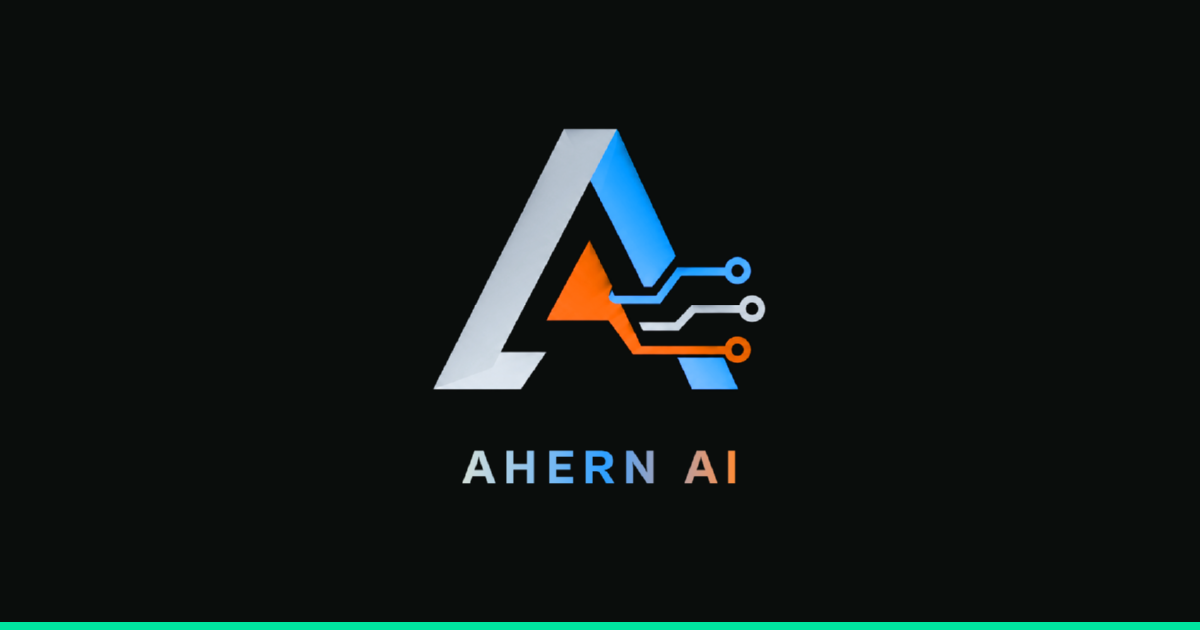
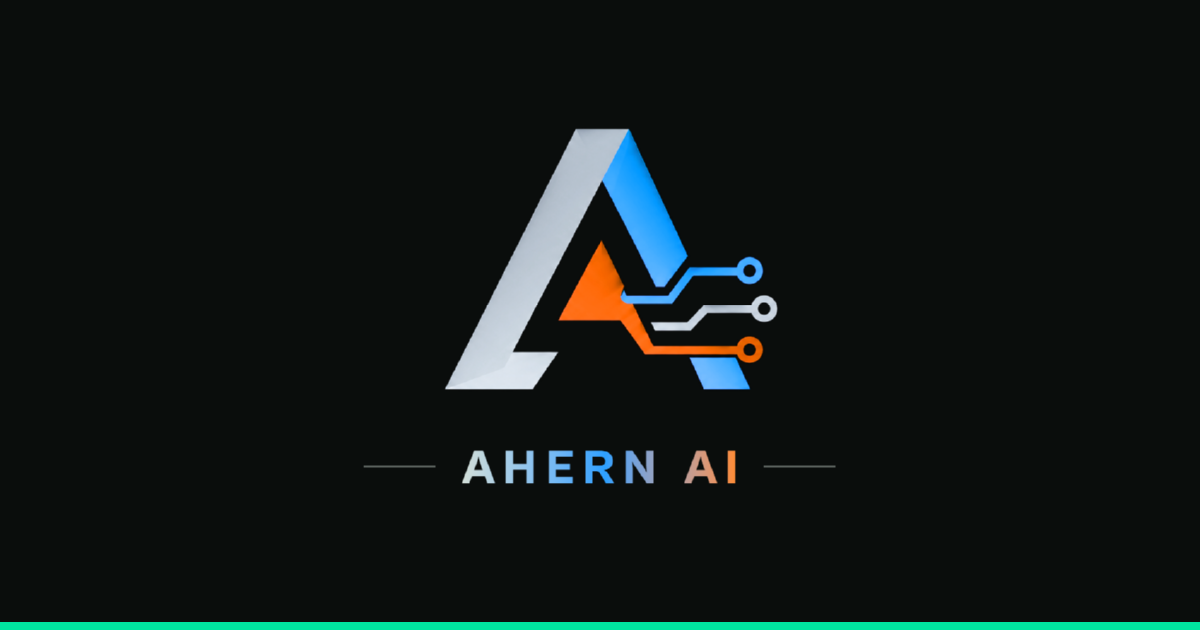
Gate: restore the flanking rules, drop the redundant wordmark
Three tweaks to the launch screen.

The rules from the original lockup are back, flanking the wordmark. They sit on
an outer .lockup-type while the gradient moves inward to a new .lockup-word,
because background-clip:text measures across the whole element — leaving the
gradient outside would have stretched the ramp over the rules too and dragged
every stop off the letter it was placed on. They also carry an explicit colour
rather than currentColor, which is transparent here so the gradient can show
through the glyphs, and would have rendered the rules invisible.

The wordmark now hangs off the mark's centre of mass instead of its bounding
box. The solid leg is heavy and the circuit traces are thin, so the mark's ink
centroid sits 3.6% of its width left of geometric centre; matching that lines
the two up by eye. Measured: the glyph run's centre is now 0.02px off the
centroid, against 5.3px before.

The small "Ahern AI" under the form is gone. The lockup above already says
whose site this is.

The flat rasters are regenerated to match, and the link preview card with them,
so the stacked lockup reads the same everywhere it appears.

diff --git a/lib/gate.js b/lib/gate.js
@@ -157,17 +157,39 @@ function renderGatePage({ error, next }) {
          hues back where invert() moved them. */
       filter: invert(1) hue-rotate(180deg);
     }
+    /* Outer element frames the wordmark with the rules and carries no
+       background of its own — the gradient has to measure across the glyph run
+       alone, so it lives on .lockup-word inside. Putting it out here would
+       stretch the ramp across the rules as well and drag every stop off the
+       letter it was placed on. */
     .lockup-type {
+      display: flex; align-items: center; gap: 0.55em;
       font-family: 'Cabinet Grotesk', 'Trebuchet MS', sans-serif;
       font-weight: 800; text-transform: uppercase; line-height: 1;
-      font-size: 0.26em; letter-spacing: 0.2em; white-space: nowrap;
+      font-size: 0.26em; white-space: nowrap;
+      /* The mark's weight sits left of its bounding box: the solid leg is
+         heavy while the circuit traces are thin, putting its centre of mass
+         about 3.6% of its width left of geometric centre. Shifting the
+         wordmark the same distance lines the two up by eye rather than by box. */
+      transform: translateX(-0.25em);
+    }
+    /* Flanking rules, carried over from the original lockup. Coloured
+       explicitly rather than with currentColor: the wordmark's colour is
+       transparent so the gradient can show through it, and rules inheriting
+       that would be invisible. */
+    .lockup-type::before, .lockup-type::after {
+      content: ''; display: block; flex: none;
+      width: 1.5em; height: 0.047em; background: #d3ded8; opacity: 0.4;
+    }
+    .lockup-word {
+      flex: none; letter-spacing: 0.2em;
       /* Pulls back the phantom half-space the trailing letter-spacing adds,
          so the wordmark centres on its glyphs rather than its box. */
       margin-right: -0.2em;
       color: #d3ded8;
     }
     @supports (background-clip: text) or (-webkit-background-clip: text) {
-      .lockup-type {
+      .lockup-word {
         background-image: linear-gradient(90deg, #d3ded8 0%, #2ca0ff 52%, #ff8a2e 100%);
         background-image: linear-gradient(90deg in oklab, #d3ded8 0%, #2ca0ff 52%, #ff8a2e 100%);
         -webkit-background-clip: text; background-clip: text; color: transparent;
@@ -188,14 +210,13 @@ function renderGatePage({ error, next }) {
     }
     button:hover { background: #4dffc2; }
     .error { color: #ff8a2e; font-size: 0.9rem; margin: 0.25rem 0 0; }
-    .contact { margin: 2.25rem 0 0; font-size: 0.85rem; color: #4d615a; }
   </style>
 </head>
 <body>
   <main class="card">
     <span class="lockup" role="img" aria-label="Ahern AI">
       <span class="lockup-mark"></span>
-      <span class="lockup-type">Ahern AI</span>
+      <span class="lockup-type"><span class="lockup-word">Ahern AI</span></span>
     </span>
     <h1>Launching soon</h1>
     <p>The site isn&#39;t public yet. If you were given a password, enter it below.</p>
@@ -213,10 +234,11 @@ function renderGatePage({ error, next }) {
       <button type="submit">Enter</button>
       ${error ? `<p class="error">${escapeAttr(error)}</p>` : ''}
     </form>
-    <!-- No phone number, no email, no contact form. The point of the gate is
-         that nobody reaches out before the site is ready; printing a way to
-         get in touch here would undo it. -->
-    <p class="contact">Ahern AI</p>
+    <!-- Nothing below the form on purpose. No phone number, no email, no
+         contact form: the point of the gate is that nobody reaches out before
+         the site is ready, and printing a way to get in touch here would undo
+         it. The lockup at the top already says whose site this is, so a second
+         wordmark down here was only repeating it. -->
   </main>
 </body>
 </html>`;
